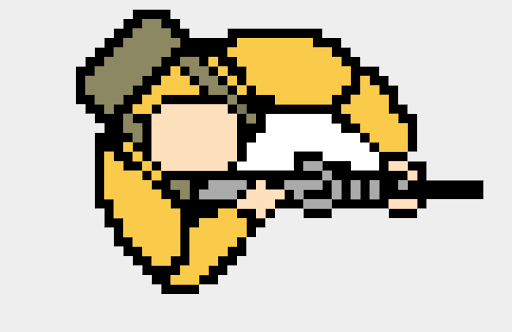
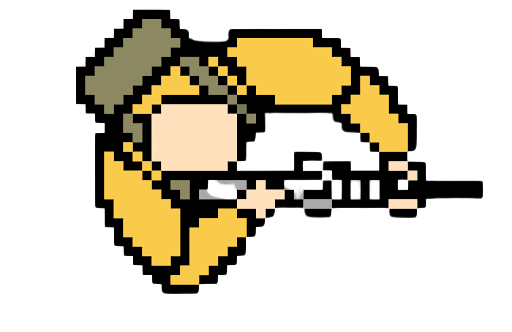
Updates on textures
Set the player texture transparent
Set the backgrouund sprite

diff --git a/Mistix_The_Right_One/main.cpp b/Mistix_The_Right_One/main.cpp
@@ -9,7 +9,7 @@
 #include <cmath>
 #include <math.h>
 
-static const unsigned int VIEW_HEIGHT = 800.0f;
+static const unsigned int VIEW_HEIGHT = 600.0f;
 static const unsigned int VIEW_WIDTH = 800.0f;
 
 inline double deg2rad(double degrees) {
@@ -135,7 +135,14 @@ class StateMachine
 
 int main()
 {
-	
+	sf::Texture background;
+	if (background.loadFromFile("tekstury/Background_Desert.png"))
+	{
+		std::cout << "Background texture successfully loaded\n";
+	}
+	background.setSmooth(true);
+	sf::Sprite background_Sprite;
+	background_Sprite.setTexture(background);
 	//Creating player
 	Player player;
 	Bullet b1(5.f);
@@ -210,7 +217,7 @@ int main()
 		aimDirNorm = aimDir/ (sqrt(pow(aimDir.x, 2) + pow(aimDir.y, 2)));
 		
 
-		std::cout << aimDirNorm.x << " " << aimDirNorm.y << std::endl;
+		/*std::cout << aimDirNorm.x << " " << aimDirNorm.y << std::endl;*/
 		//Shooting
 		if (sf::Mouse::isButtonPressed(sf::Mouse::Left))
 		{
@@ -227,8 +234,8 @@ int main()
 		
 		//Clear the window
 
-		window.clear(sf::Color::Magenta);
-		
+		window.clear();
+		window.draw(background_Sprite);
 		//Draw current Frame
 		
 
